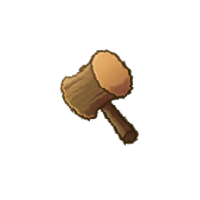
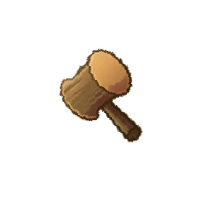
fix: shorten hammer smashing animation

Changed region(s): [[0.3, 0.24, 0.72, 0.75], [0.45, 0.51, 0.48, 0.54]]

diff --git a/src/constants.py b/src/constants.py
@@ -16,7 +16,7 @@ SPRITE_PATHS = (
     + [f"{ASSETS_DIR}/background/tomb_rocks.png"]
     + [f"{ASSETS_DIR}/background/grass.jpg"]
     + [f"{ASSETS_DIR}/hammer/base.png"]
-    + [f"{ASSETS_DIR}/hammer/{img}.png" for img in range(1, 21)]
+    + [f"{ASSETS_DIR}/hammer/{img}.png" for img in range(1, 12)]
 )
 SPRITE_MAP = loadSpriteMap(SPRITE_PATHS)
 
@@ -25,4 +25,4 @@ TOMB_IDX = 32
 TOMB_ROCKS_IDX = 33
 GRASS_IDX = 34
 HAMMER_IDX = 35
-HAMMER_SMASH_ANIMATION_IDXES = list(range(36, 56)) + list(range(55, 34, -1))
+HAMMER_SMASH_ANIMATION_IDXES = list(range(36, 47)) + list(range(46, 34, -1))
